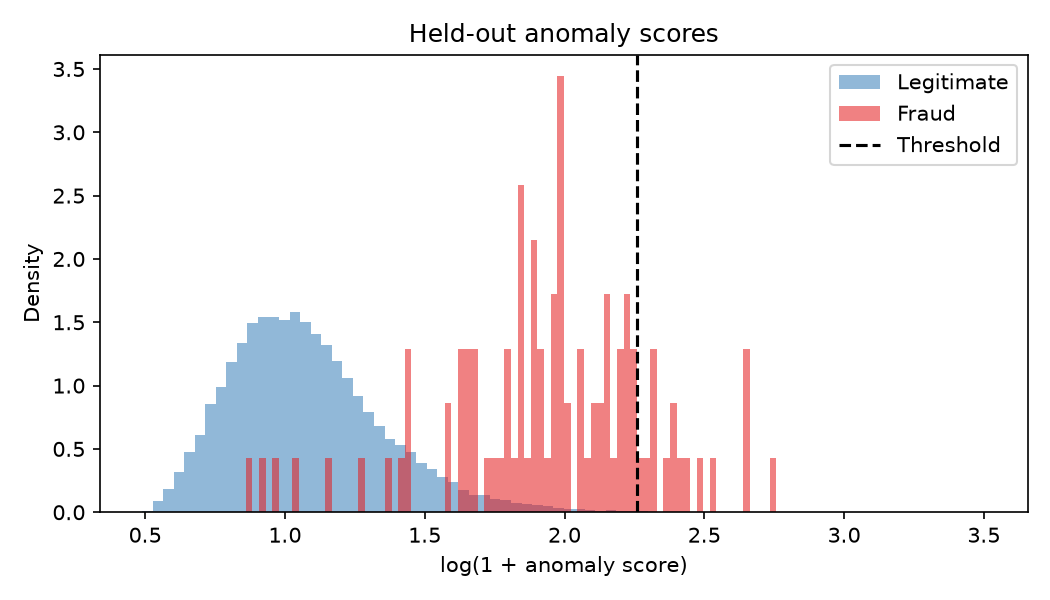
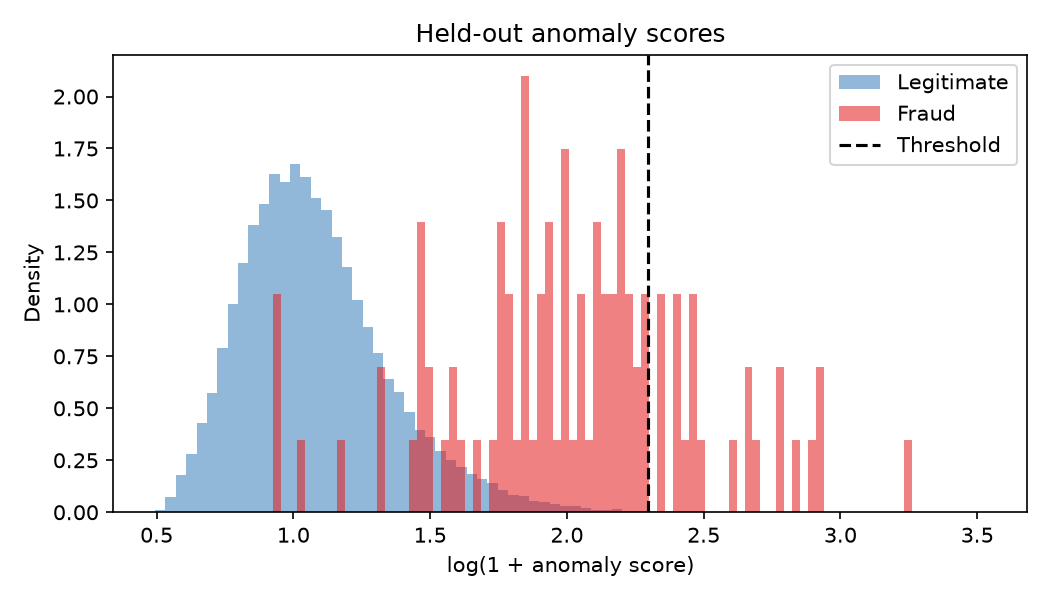
results

diff --git a/README.md b/README.md
@@ -75,9 +75,9 @@ Precision is the fraction of alerts that are fraud; recall is the fraction of fr
 
 ## Results
 
-The full 20-epoch CPU run used 227,845 training and 56,962 test transactions (98 frauds). The primary unsupervised model obtained ROC-AUC **0.9534**, average precision **0.1117**, precision **0.1616**, recall **0.1633**, and F1 **0.1624** at the training-derived threshold **8.570630**. The confusion matrix was TN=56,781, FP=83, FN=82, TP=16; 99 transactions were flagged. Stronger ranking performance does not imply high recall at this threshold: 82 of 98 frauds were missed. Exact values and runtime are in [metrics.json](outputs/metrics.json).
+The full 20-epoch MPS run used 227,845 training and 56,962 test transactions (98 frauds). The primary unsupervised model obtained ROC-AUC **0.9546**, average precision **0.1568**, precision **0.2447**, recall **0.2347**, and F1 **0.2396** at the training-derived threshold **8.945906**. The confusion matrix was TN=56,793, FP=71, FN=75, TP=23; 94 transactions were flagged. Stronger ranking performance does not imply high recall at this threshold: 75 of 98 frauds were missed. Exact values and runtime are in [metrics.json](outputs/metrics.json).
 
-The **normal-only reference**, which uses labels to select training examples, performed better on this particular split: ROC-AUC **0.9595**, average precision **0.6197**, precision **0.4188**, recall **0.8163**, and F1 **0.5536**; TN=56,753, FP=111, FN=18, TP=80, with 191 alerts. It is a different, label-assisted experiment, and generated 28 more false positives than the primary model. The reference and primary metrics from the comparison run are retained in [metrics_comparison.json](outputs/metrics_comparison.json).
+In a separate CPU comparison run on the same split, the **normal-only reference**, which uses labels to select training examples, obtained ROC-AUC **0.9595**, average precision **0.6197**, precision **0.4188**, recall **0.8163**, and F1 **0.5536**; TN=56,753, FP=111, FN=18, TP=80, with 191 alerts. It is a different, label-assisted experiment and produced 28 more false positives than that run’s CPU primary model. Both CPU comparison results are retained in [metrics_comparison.json](outputs/metrics_comparison.json). Results may differ between CPU and MPS runs.
 
 ## Visual results
 
